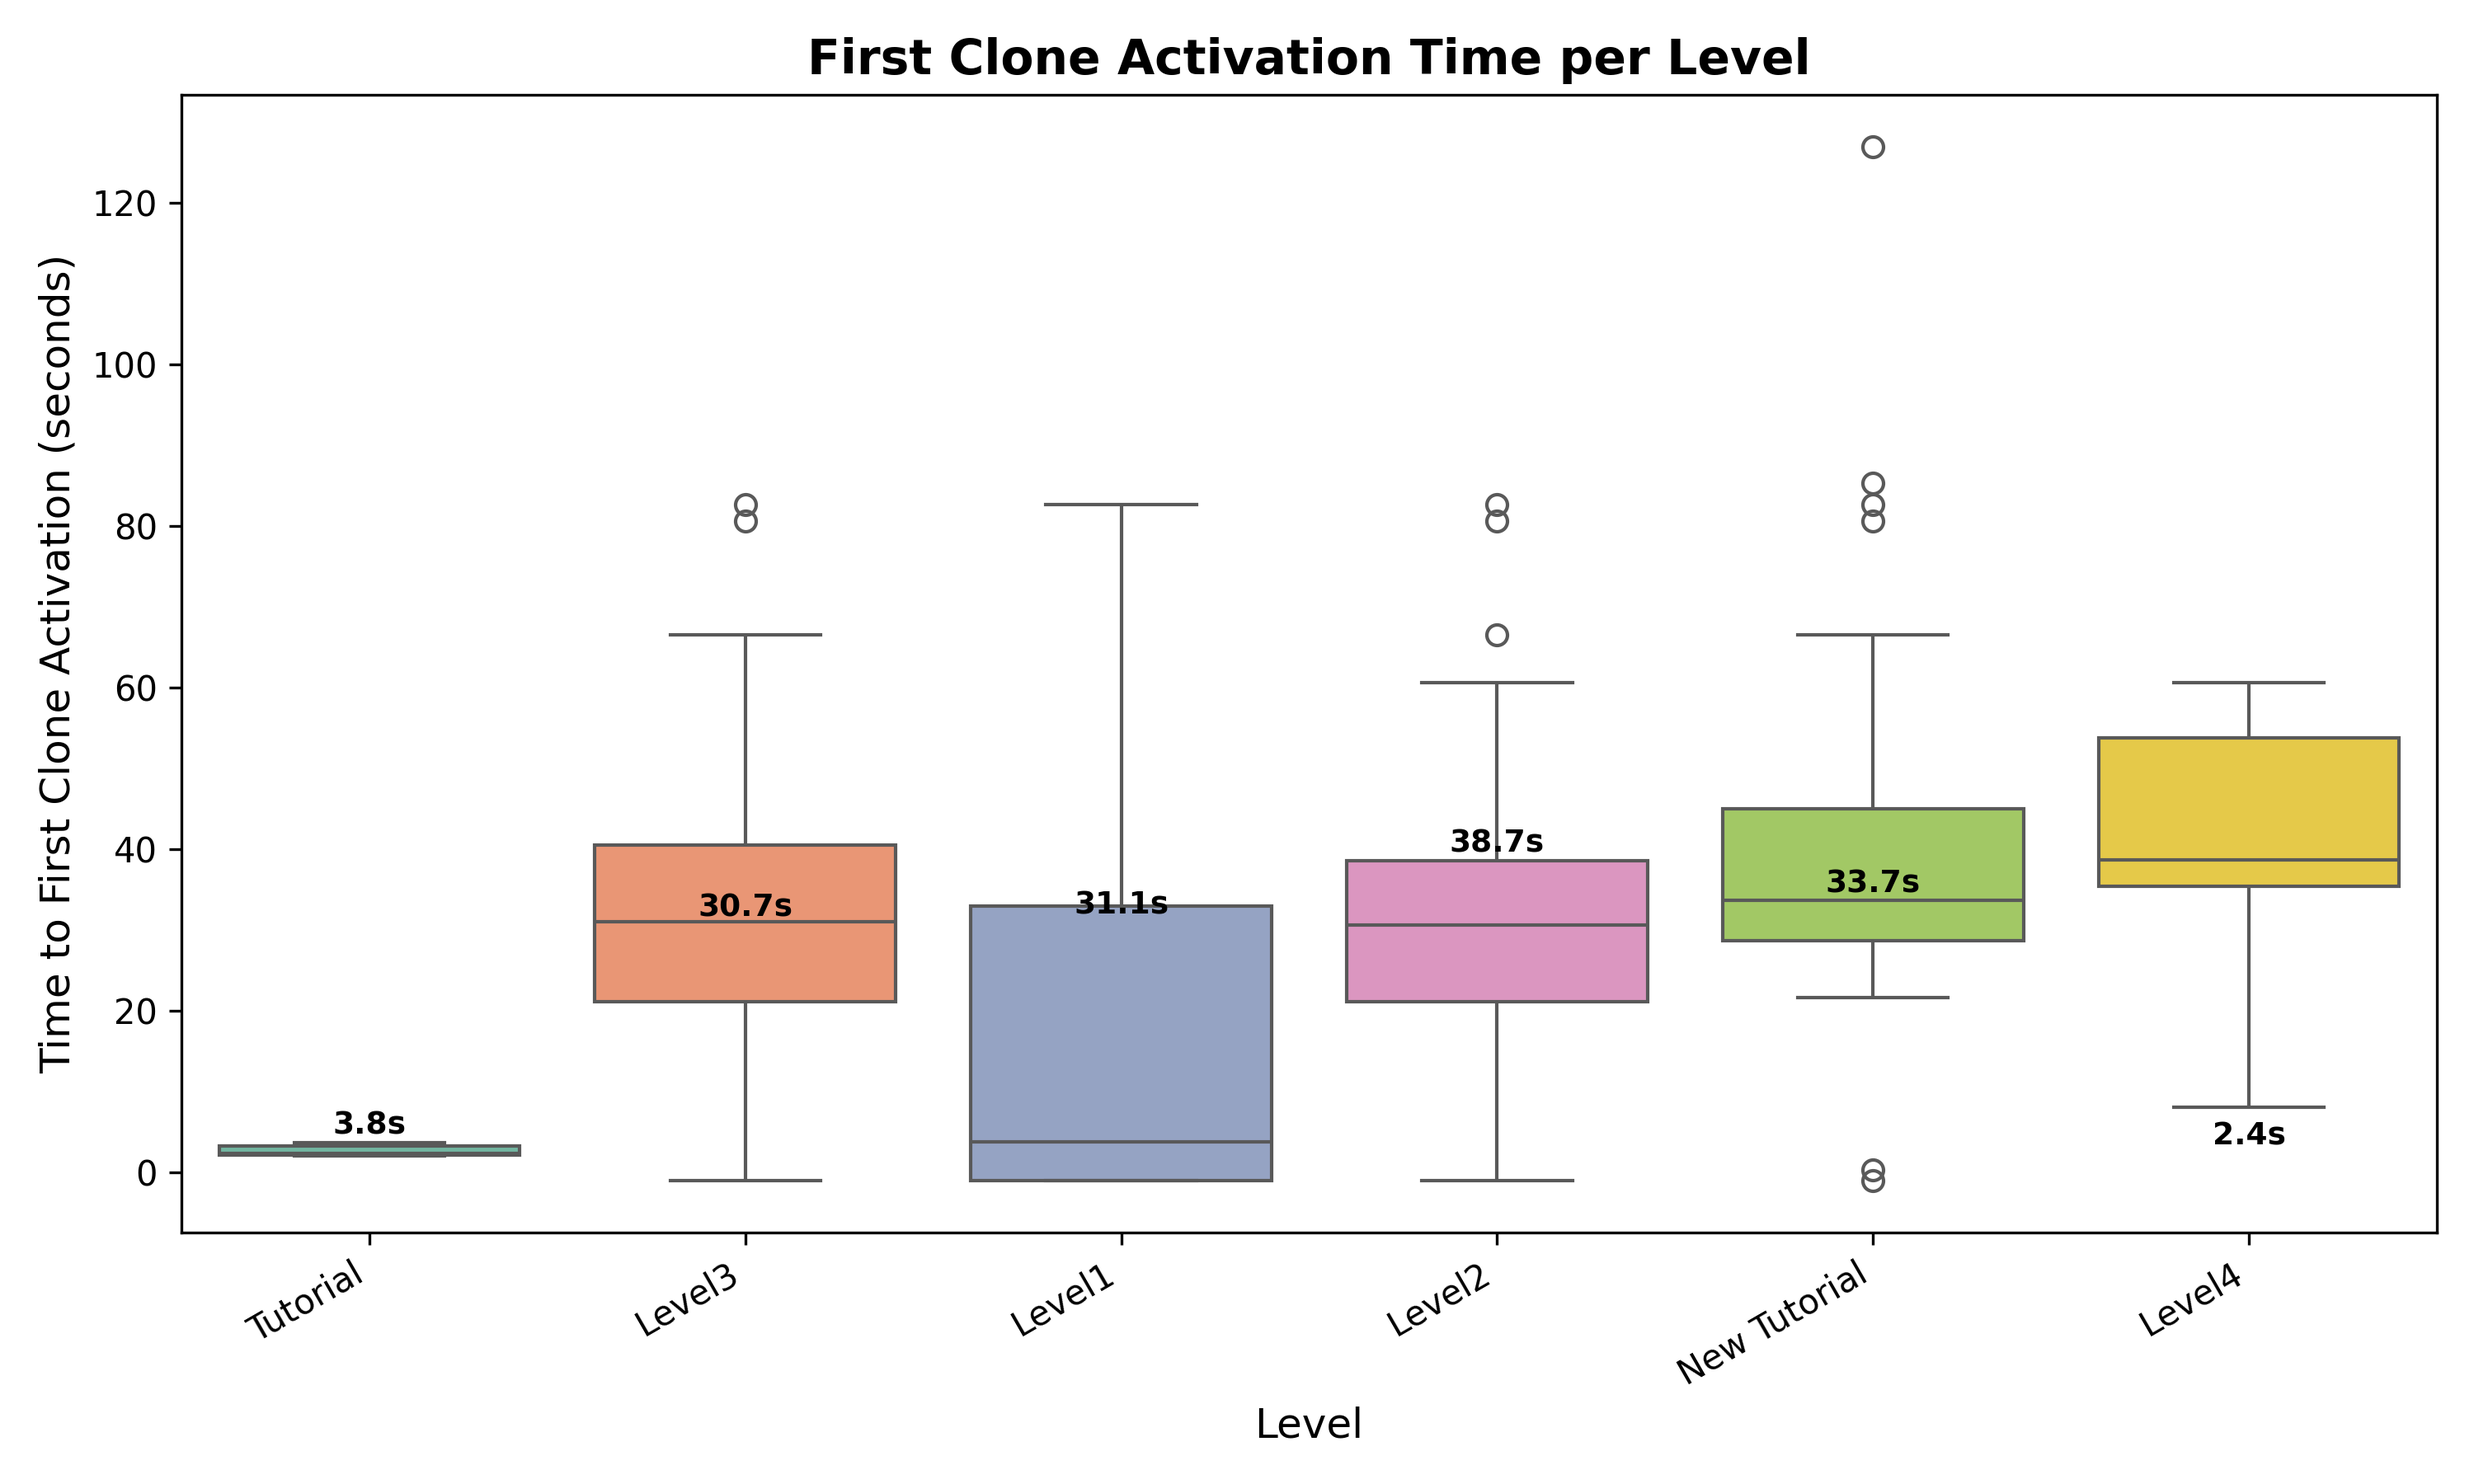
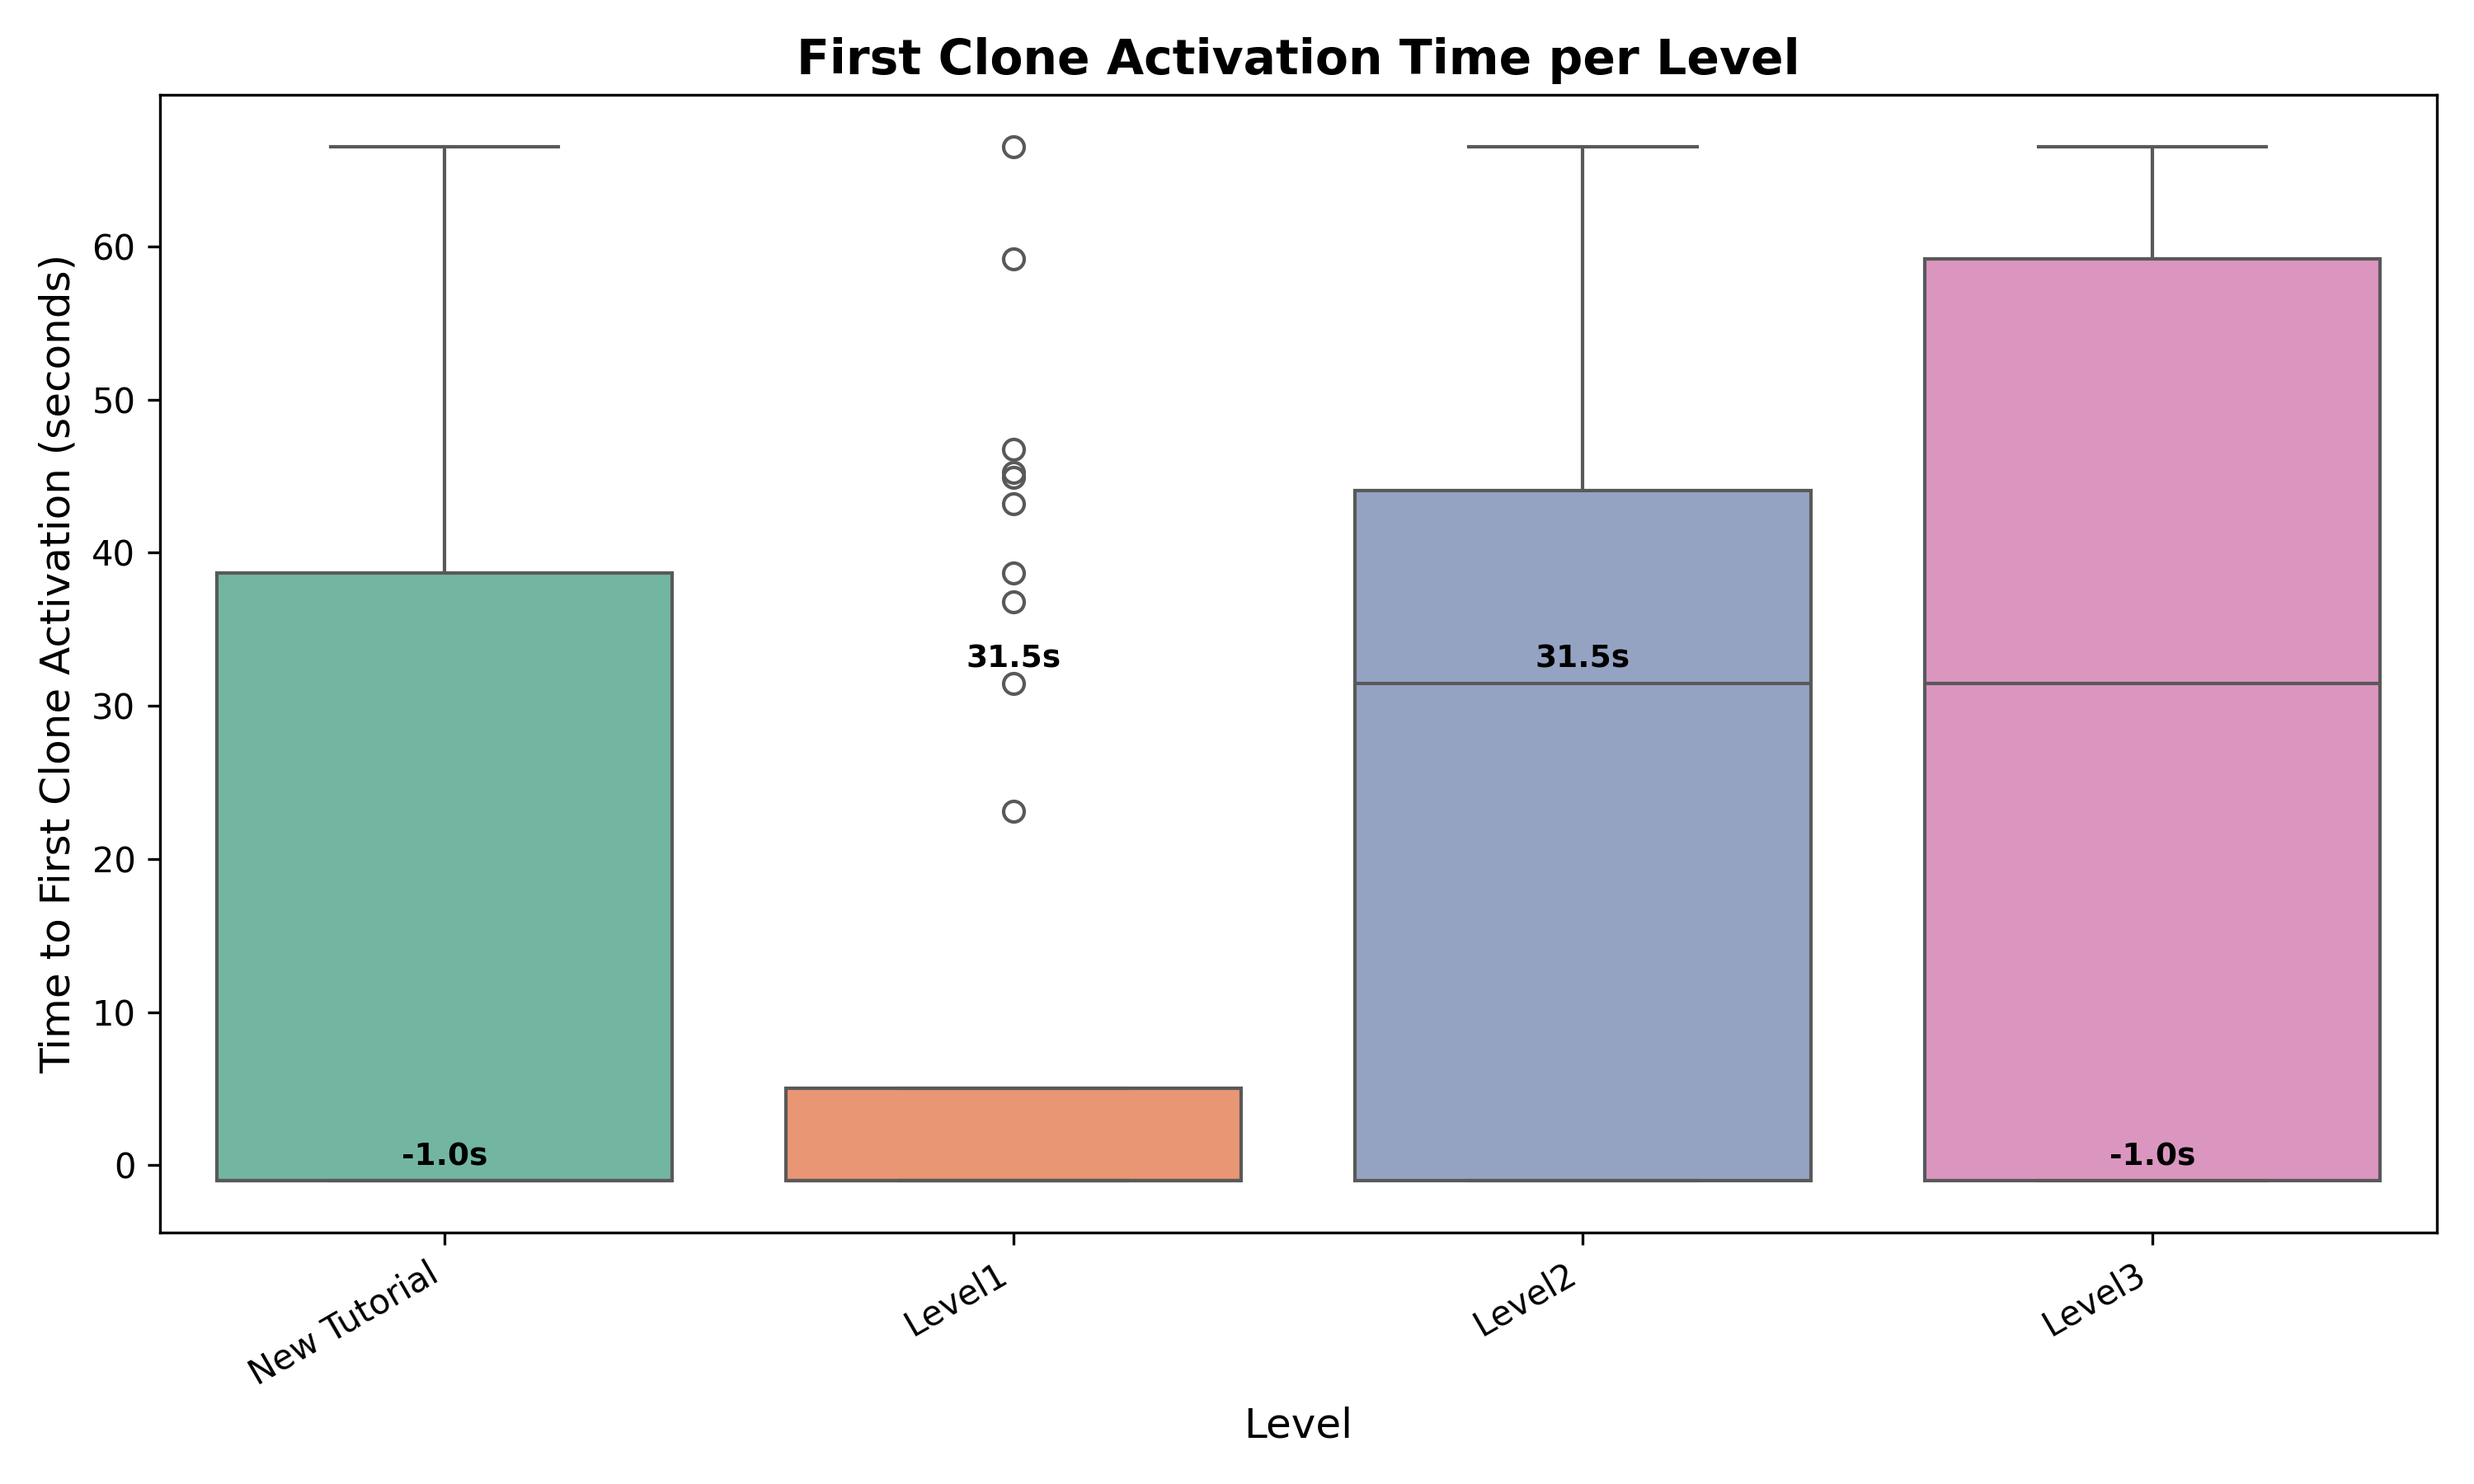
New graphs and data added

diff --git a/Assets/Analytics/survey_graph.py b/Assets/Analytics/survey_graph.py
@@ -1,0 +1,65 @@
+import matplotlib.pyplot as plt
+import pandas as pd
+from firebase_admin import credentials, db, initialize_app
+
+# Firebase setup
+cred_path = "Assets/Analytics/doppledash-2a42c-firebase-adminsdk-fbsvc-951ff5d51d.json"
+initialize_app(credentials.Certificate(cred_path), {
+    "databaseURL": "https://doppledash-2a42c-default-rtdb.firebaseio.com/"
+})
+
+
+def clean_dataframe(df):
+    discard_levels = ['q', 'Tutorial', 'Camera Trial', 'Test', 'Level5']
+    return df[df['level_name'].isin(discard_levels) == False] if 'level_name' in df.columns else df
+
+
+def fetch_firebase_data(db_name):
+    ref = db.reference(db_name)
+    data = ref.get()
+    if not data:
+        print(f"No data found in Firebase for {db_name}!")
+        return pd.DataFrame()
+    df = pd.DataFrame.from_dict(data, orient="index")
+    print(f"Fetched {len(df)} records from {db_name}")
+    return clean_dataframe(df)
+
+
+# Fetch data
+df_completion = fetch_firebase_data("level_completion")
+df_deaths = fetch_firebase_data("player_deaths")
+
+# Group and count
+completion_counts = df_completion['level_name'].value_counts()
+death_counts = df_deaths['level_name'].value_counts()
+
+# Calculate total
+total_completions = completion_counts.sum()
+total_deaths = death_counts.sum()
+
+# Percentages
+completion_percentages = (
+    completion_counts / total_completions * 100).sort_index()
+death_percentages = (death_counts / total_deaths * 100).sort_index()
+
+# Define custom colors
+completion_colors = ['#4CAF50', '#2196F3', '#FFC107',
+                     '#FF5722', '#9C27B0']  # Green, Blue, Amber, Orange, Purple
+death_colors = ['#F44336', '#FF9800', '#9C27B0', '#3F51B5',
+                '#00BCD4']       # Red, Orange, Purple, Blue, Cyan
+
+# Plot
+fig, axes = plt.subplots(1, 2, figsize=(12, 6))
+
+# Completions Pie
+axes[0].pie(completion_percentages, labels=completion_percentages.index,
+            autopct='%1.1f%%', startangle=140, colors=completion_colors)
+axes[0].set_title('Player Completions per Level')
+
+# Deaths Pie
+axes[1].pie(death_percentages, labels=death_percentages.index,
+            autopct='%1.1f%%', startangle=140, colors=death_colors)
+axes[1].set_title('Player Deaths per Level')
+
+plt.tight_layout()
+plt.show()

diff --git a/Assets/Scripts/Player.cs b/Assets/Scripts/Player.cs
@@ -149,6 +149,8 @@ public class Player : MonoBehaviour
         if (collider.gameObject.CompareTag("PlayerPlatform"))
         {
             cloneScript.gameObject.SetActive(true);
+            LevelManager.Instance.TrackCloneUsage();
+            LevelManager.Instance.TrackCloneUsageCount();
 
             cloneScript.resetPosition();
             cloneScript.resetGravity();

diff --git a/Assets/Scripts/Analytics/LevelManager.cs b/Assets/Scripts/Analytics/LevelManager.cs
@@ -72,6 +72,10 @@ public class LevelManager : MonoBehaviour
         cloneUsageTracker.TrackCloneUsage();
     }
 
+    public void TrackCloneUsageCount() {
+        cloneUsageTracker.IncrementCloneUsageCount();
+    }
+
     public void TrackCloneUsageData(string levelName)
     {
         cloneUsageTracker.SendCloneUsageData(levelName);

diff --git a/Assets/Analytics/clone_analysis.py b/Assets/Analytics/clone_analysis.py
@@ -84,7 +84,7 @@ def clone_usage_boxplot(df):
     plt.close()
 
 
-df_clone_usage = fetch_firebase_data("clone_usage")
+df_clone_usage = fetch_firebase_data("clone_usage_new")
 if not df_clone_usage.empty:
     clone_usage(df_clone_usage)
     clone_usage_boxplot(df_clone_usage)
